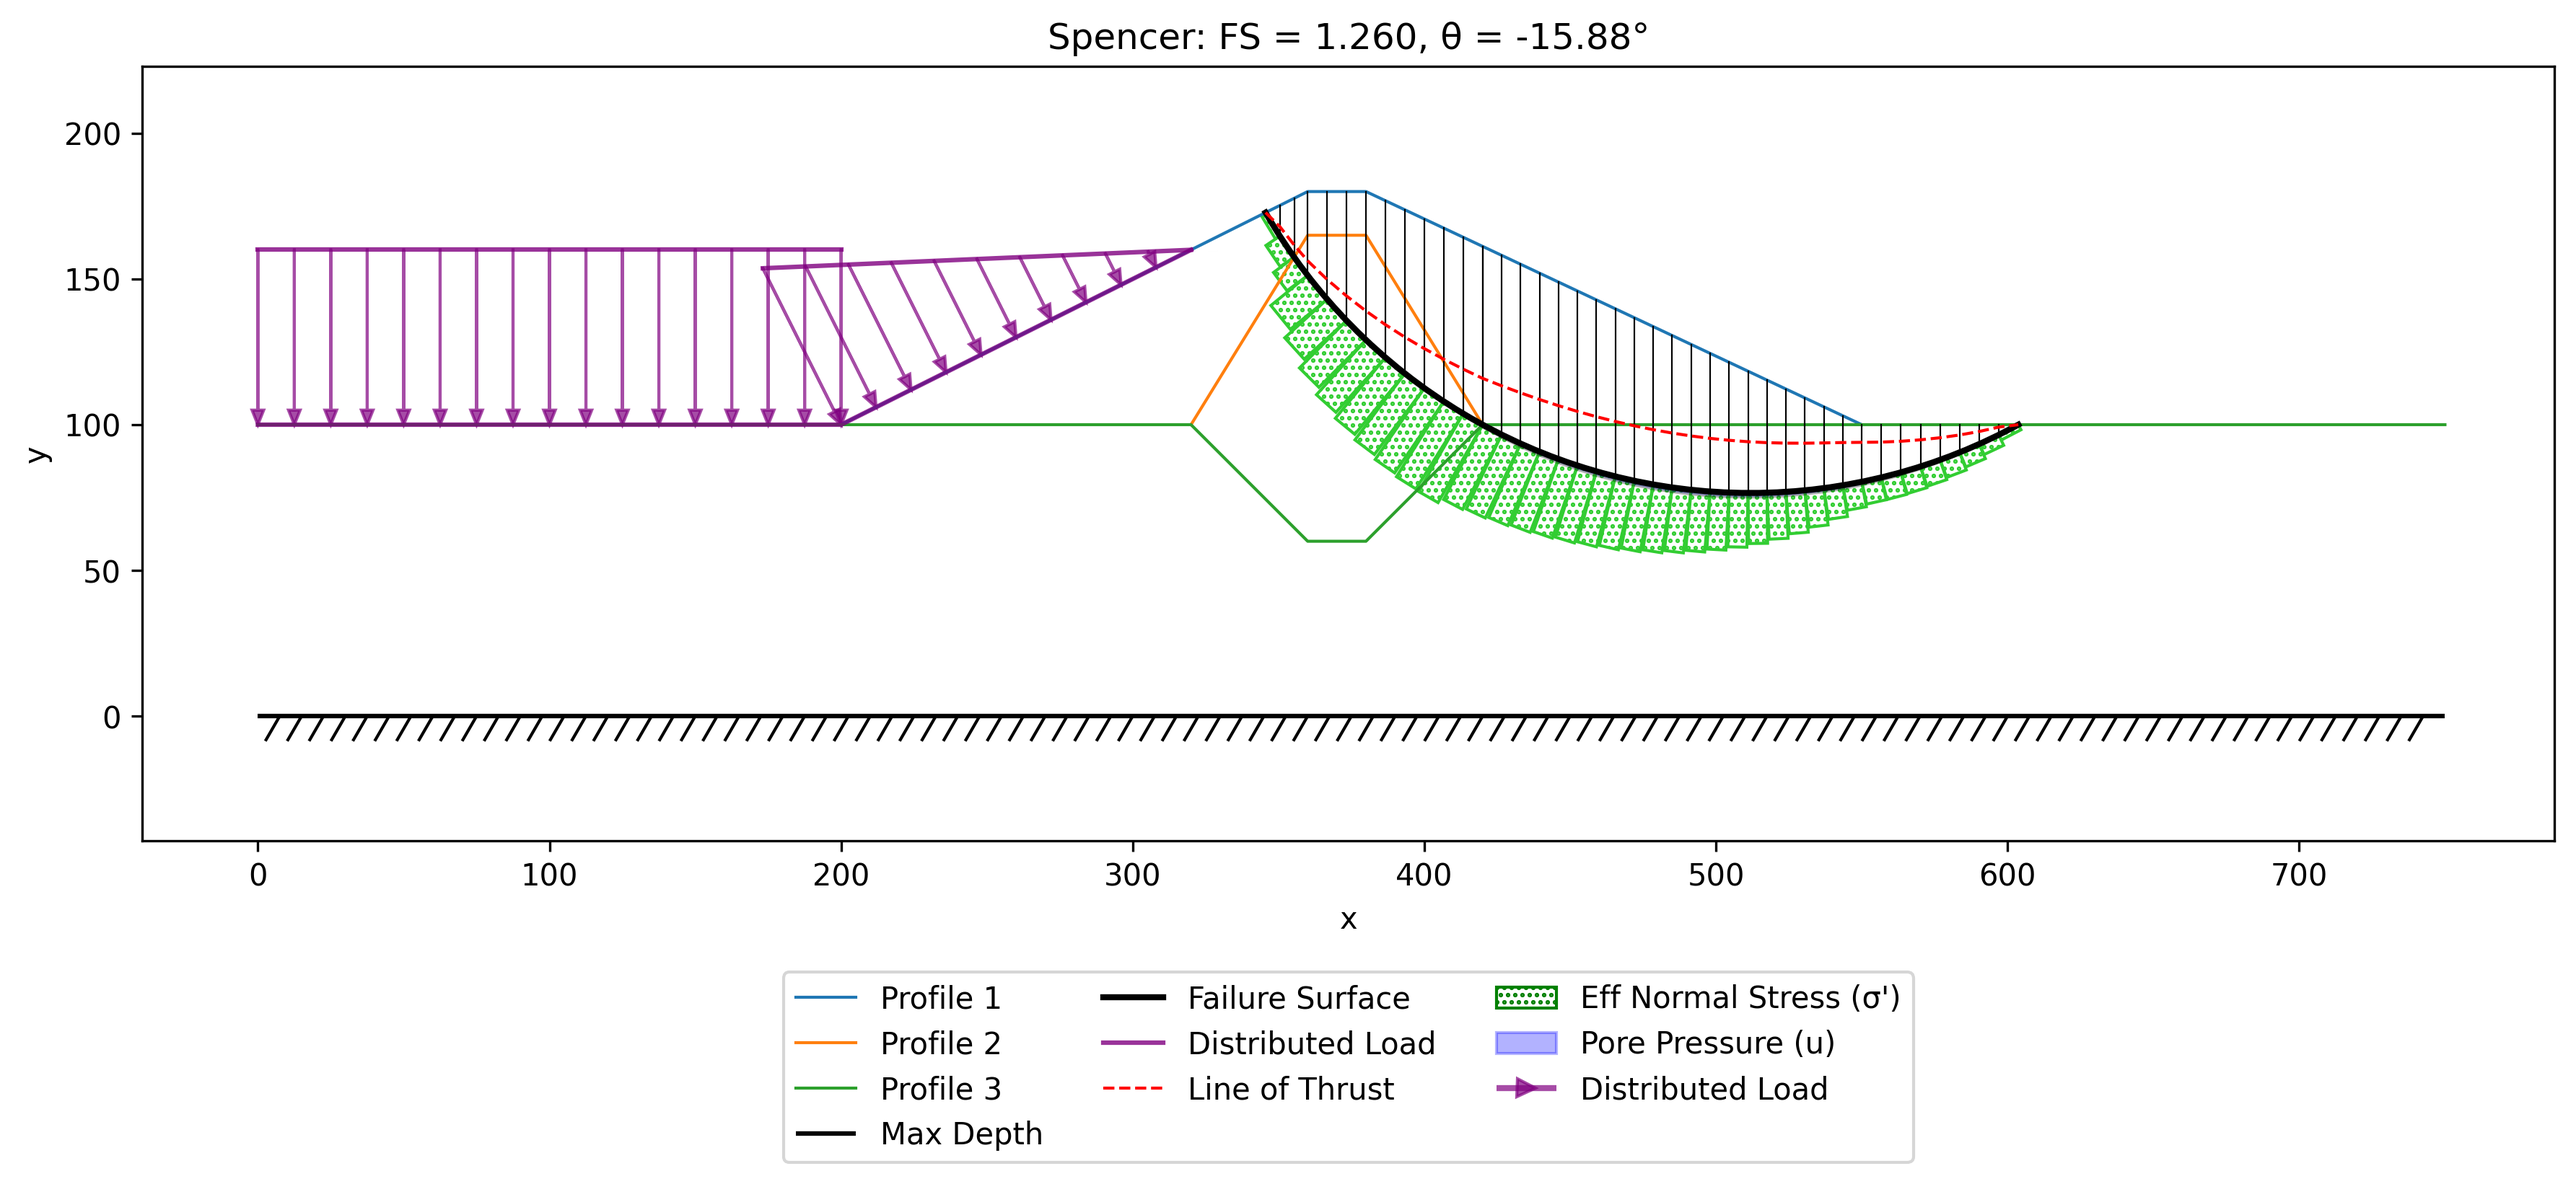
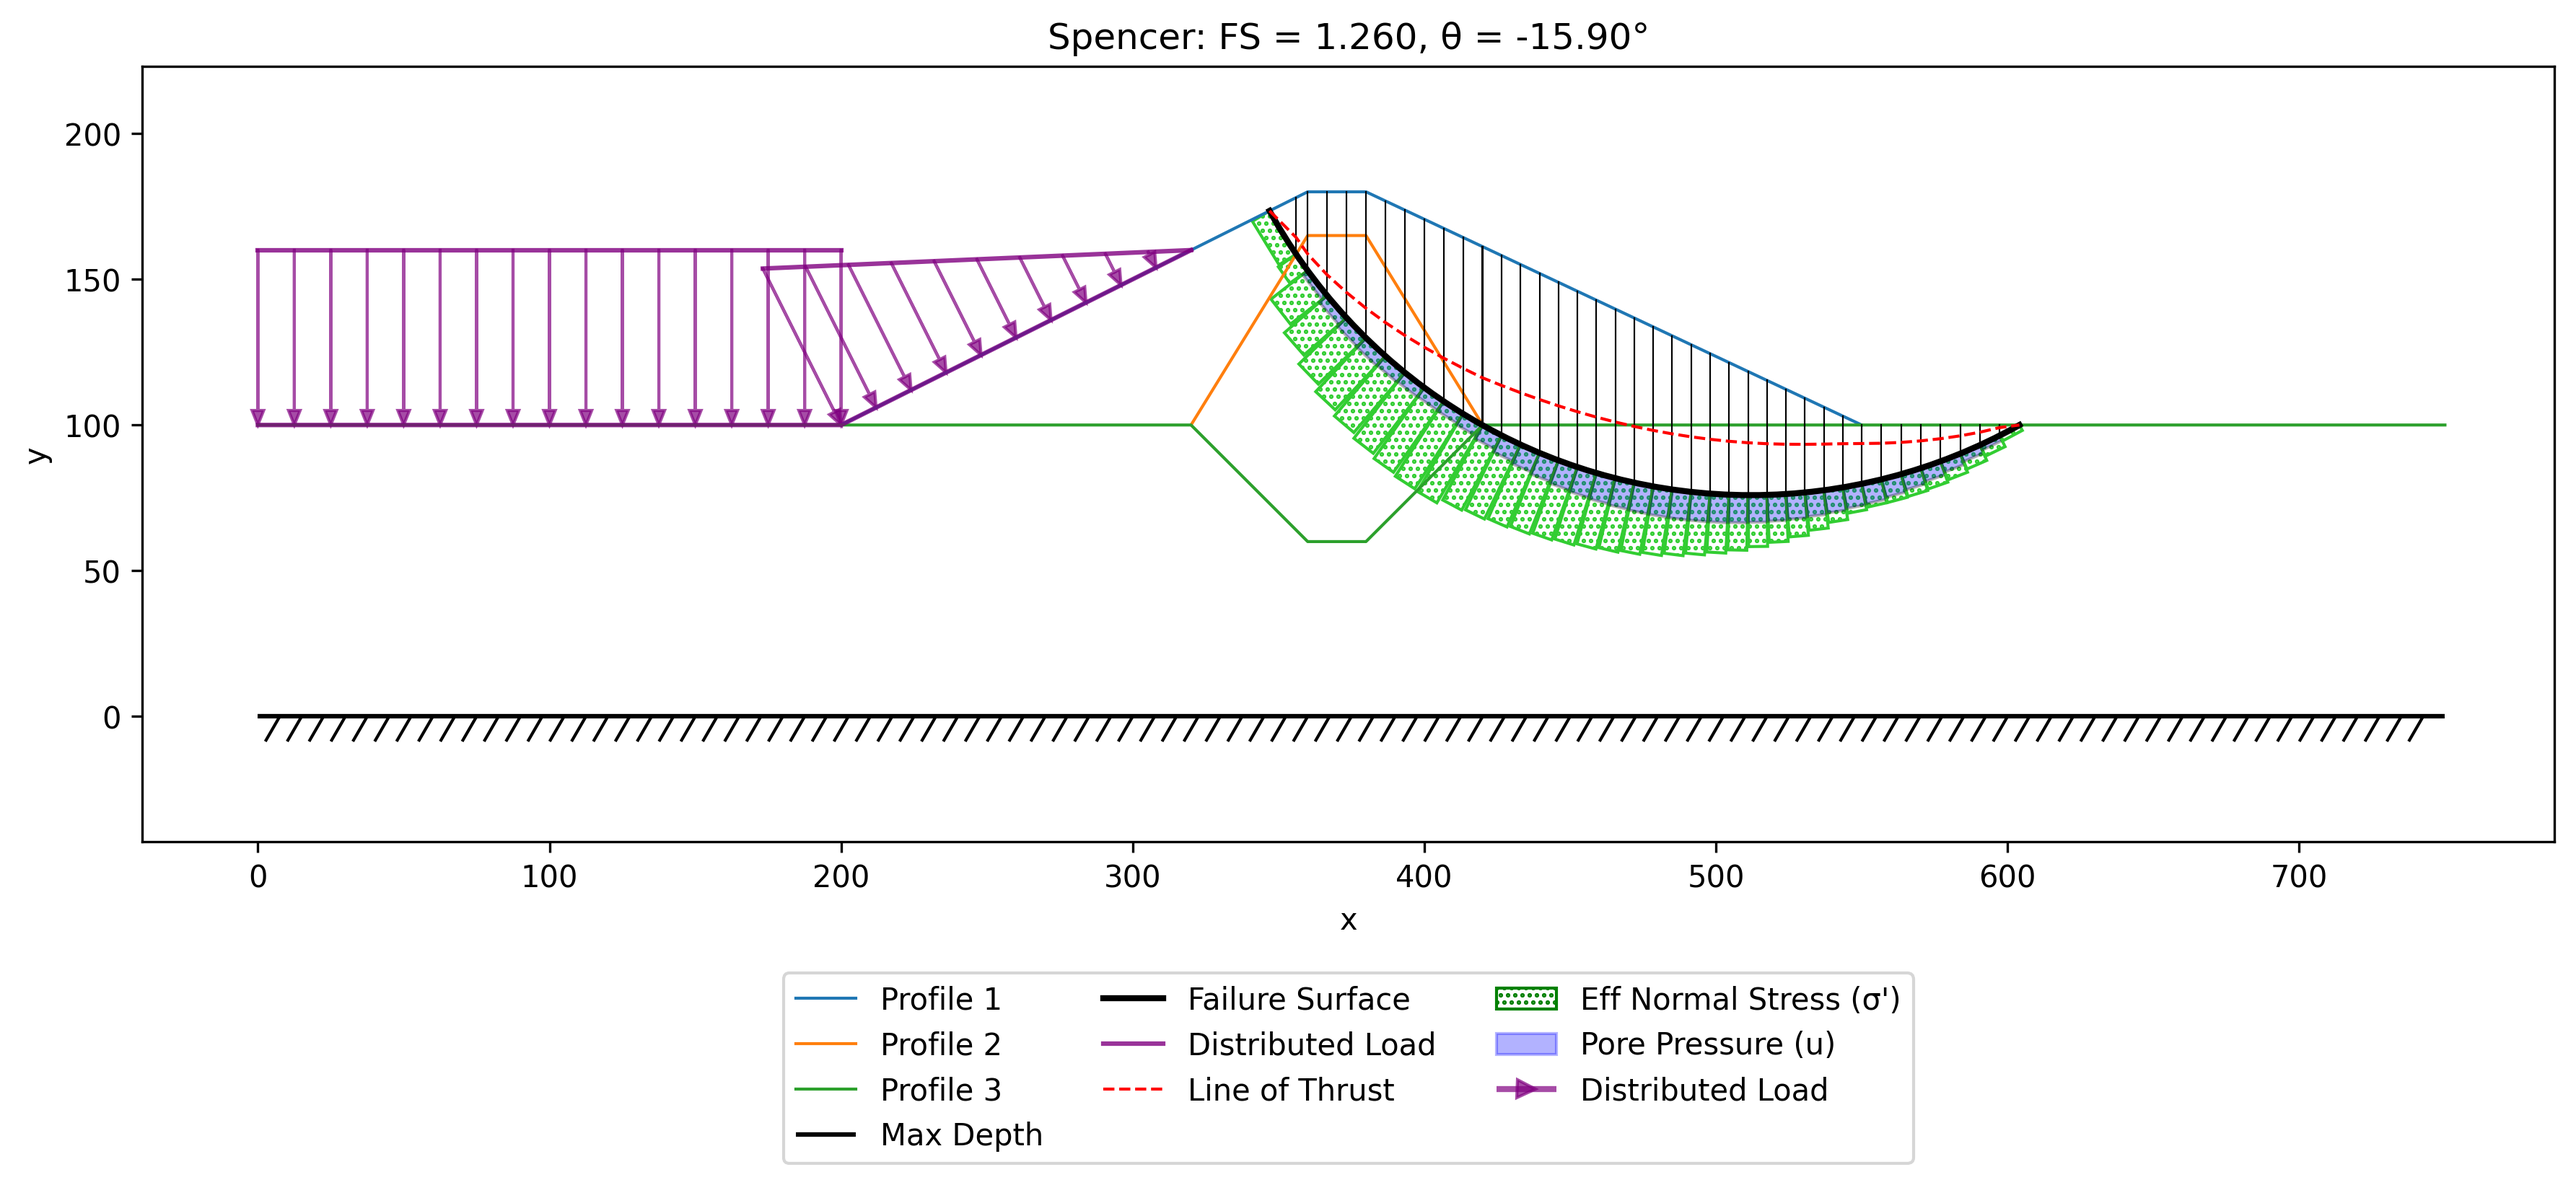
updated more images to use new pore pressure plots

Changed region(s): [[0.4664, 0.1864, 0.8084, 0.4659], [0.6218, 0.3417, 0.684, 0.3727], [0.684, 0.8386, 0.7151, 0.8697]]

diff --git a/main_lem.py b/main_lem.py
@@ -7,13 +7,13 @@ from xslope.search import circular_search, noncircular_search
 from xslope.slice import generate_slices
 from xslope.advanced import reliability as reliability_analysis
 
-slope_data = load_slope_data("docs/lem/files/xslope_noncircular.xlsx")
+slope_data = load_slope_data("docs/lem/files/xslope_earth_dam_up.xlsx")
 plot_inputs(slope_data, mode='lem', save_png=True)
 
 method = "spencer" # @param ["oms","bishop","janbu","corps_engineers","lowe_karafiath","spencer"]
 num_slices = 30 # @param {"type":"integer"}
-analysis_type = "auto_search" # @param ["single_surface","all_methods", "auto_search","reliability"]
-surface_type = "non_circular" # @param ["circular","non_circular"]
+analysis_type = "single_surface" # @param ["single_surface","all_methods", "auto_search","reliability"]
+surface_type = "circular" # @param ["circular","non_circular"]
 rapid_drawdown = False # @param {"type":"boolean"}
 reliability = False # @param {"type":"boolean"}
 save_png = True # @param {"type":"boolean"}

diff --git a/docs/index.md b/docs/index.md
@@ -8,7 +8,7 @@ The xslope software was developed by Norman L Jones, PhD, a professor in the Civ
 
 The limit equilibrium method (LEM) represents the fundamental approach to slope stability analysis, evaluating stability by examining the equilibrium of forces acting on a potential failure mass. A slope remains stable when the resisting forces, primarily the shear strength of the soil along the failure surface, exceed the driving forces such as weight and other destabilizing influences. The factor of safety is expressed as the ratio of available shear strength to the shear stress required for equilibrium.
 
-![xslope_results_single.png](lem/images/xslope_results_single.png)
+![xslope_results_single.png](lem/images/xslope_results_single.png){width="1200"}
 
 xslope employs the method of slices, a numerical technique that divides the potential failure mass into a series of vertical slices. Rather than analyzing the entire mass as a single unit, each slice is examined individually, with the overall stability determined by summing the forces and moments acting on all slices. This approach allows for the analysis of complex geometries, varying soil conditions, and multiple loading scenarios including distributed surface loads, seismic forces, reinforcement, and tension cracks.
 
